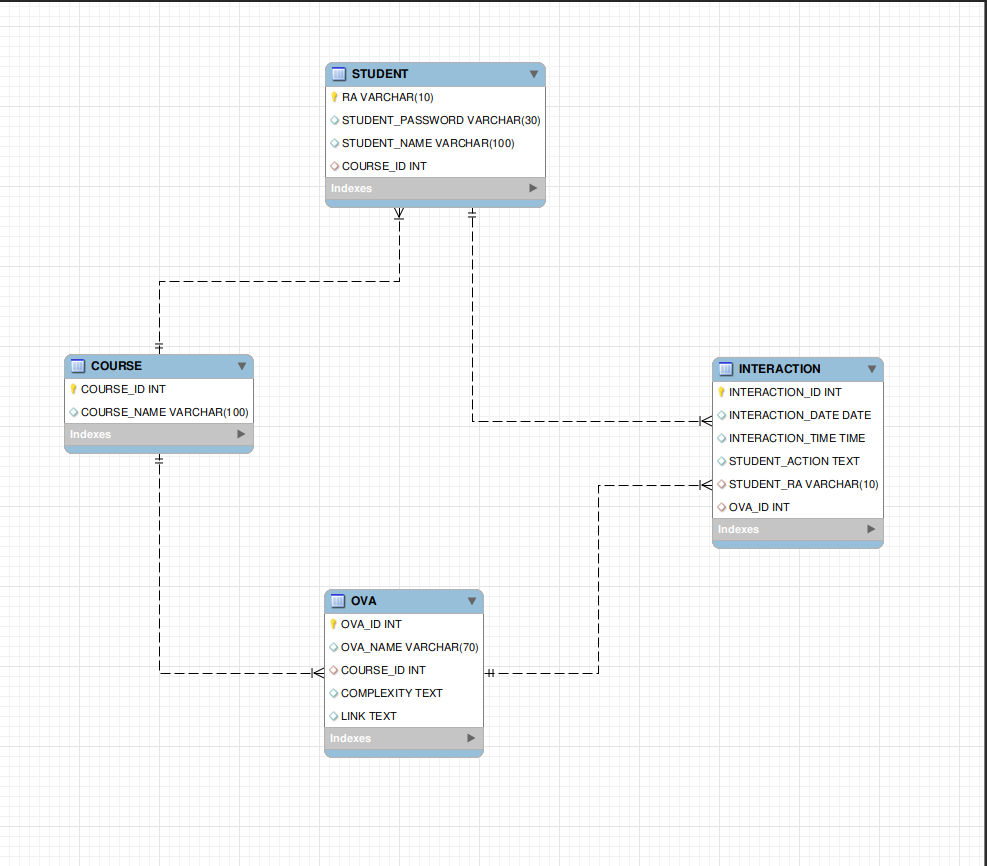
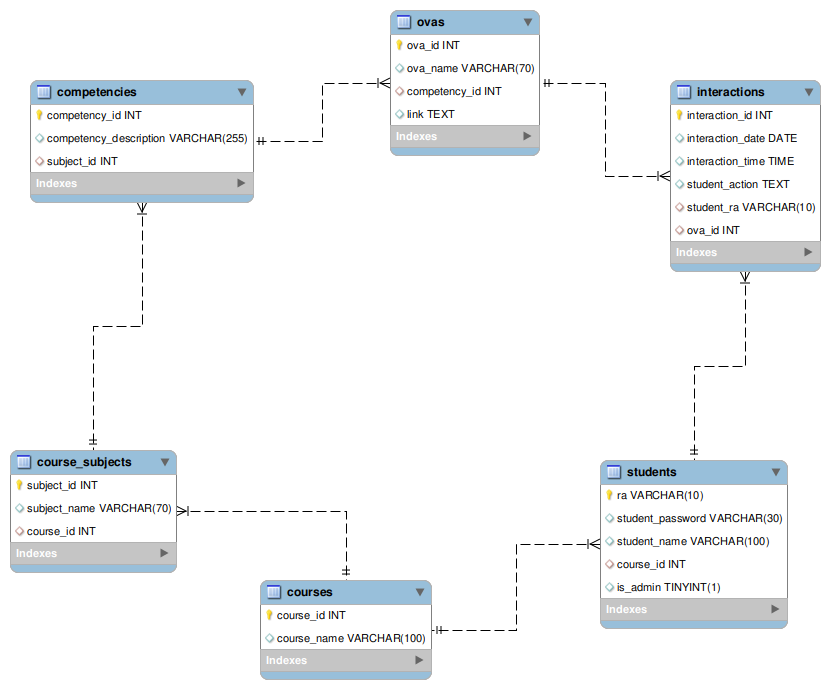
added competencies and subjects tables and updated the api for it

diff --git a/Front-End/js/request.js b/Front-End/js/request.js
@@ -1,4 +1,4 @@
-const PORT = 8000;
+const PORT = 8080;
 const HOST = "localhost";
 const BASE_URL = `http://${HOST}:${PORT}`
 

diff --git a/Front-End/js/video-player.js b/Front-End/js/video-player.js
@@ -1,4 +1,4 @@
-const PORT = 8000;
+const PORT = 8080;
 const HOST = "localhost";
 const BASE_URL = `http://${HOST}:${PORT}`
 

diff --git a/Back-End/api/routes/interactionRoute.py b/Back-End/api/routes/interactionRoute.py
@@ -10,10 +10,9 @@ from peewee import PeeweeException
 import json
 import datetime
 
-from student import Student
-from ova import OVA
-
-from interaction import Interaction
+from students import Students
+from ovas import OVAs
+from interactions import Interactions
 
 app_interaction = Blueprint("interaction", __name__)
 
@@ -24,10 +23,10 @@ def register():
         try:
             interaction_data = request.get_json()[0]
             
-            student = Student.select().where(Student.ra == interaction_data["ra"]).first()
-            ova = OVA.select().where(OVA.ova_id == interaction_data["ova_id"]).first()
+            student = Students.select().where(Students.ra == interaction_data["ra"]).first()
+            ova = OVAs.select().where(OVAs.ova_id == interaction_data["ova_id"]).first()
             
-            interaction = Interaction.create(
+            interaction = Interactions.create(
                 interaction_date = datetime.datetime.now().strftime("%Y/%m/%d"),
                 interaction_time = datetime.datetime.now().strftime("%H:%M:%S"),
                 student_action = interaction_data["action"],

diff --git a/Back-End/api/routes/loginRoute.py b/Back-End/api/routes/loginRoute.py
@@ -9,8 +9,8 @@ from flask_cors import cross_origin
 import json
 from peewee import PeeweeException
 
-from student import Student
-from course import Course
+from students import Students
+from courses import Courses
 
 app_login = Blueprint('login', __name__)
 
@@ -20,12 +20,12 @@ def login():
     if request.method == "POST":
         try:
             login_data = request.get_json()[0]
-            student = Student.select().where(Student.ra == login_data["ra"]).first()
+            student = Students.select().where(Students.ra == login_data["ra"]).first()
             
             if (not student or login_data["ra"] == "") or login_data["password"] != student.student_password:
                 return "Wrong RA or Password", 401
             
-            course = Course.select().where(Course.course_id == student.course_id).first()
+            course = Courses.select().where(Courses.course_id == student.course_id).first()
             
             ids = {
                 "course_id": course.course_id,

diff --git a/Back-End/api/routes/ovaRoute.py b/Back-End/api/routes/ovaRoute.py
@@ -9,7 +9,7 @@ from flask_cors import cross_origin
 from peewee import PeeweeException
 import json
 
-from ova import OVA
+from ovas import OVAs
 
 app_ova = Blueprint("ova", __name__)
 
@@ -18,7 +18,7 @@ app_ova = Blueprint("ova", __name__)
 def show_course_OVAs(course_id):
     if request.method == "GET":
         try:
-            ovas = OVA.select().where(OVA.course_id == course_id)
+            ovas = OVAs.select().where(OVAs.course_id == course_id)
             ova_list = []
             for ova in ovas:
                 ova_dict = {
@@ -39,7 +39,7 @@ def show_course_OVAs(course_id):
 def show_all_OVAs():
     if request.method == "GET":
         try:
-            ovas = OVA.select()
+            ovas = OVAs.select()
             ova_list = []
             for ova in ovas:
                 ova_dict = {

diff --git a/Back-End/plots/data_analysis.py b/Back-End/plots/data_analysis.py
@@ -6,14 +6,14 @@ sys.path.append(os.path.abspath(os.path.join(os.getcwd(), 'data')))
 
 from playhouse.shortcuts import model_to_dict, fn, JOIN
 
-from student import Student
-from ova import OVA
-from interaction import Interaction
-from course import Course
+from students import Students
+from ovas import OVAs
+from interactions import Interactions
+from courses import Courses
 
 def ova_interactions_by_student(data):
-    I = Interaction.alias()
-    O = OVA.alias()
+    I = Interactions.alias()
+    O = OVAs.alias()
     
     student_interactions = I.select(I.interaction_id, I.ova_id).where(I.student_ra == data["ra"])
     SI = student_interactions.alias("SI")

diff --git a/Back-End/api/routes/studentRoute.py b/Back-End/api/routes/studentRoute.py
@@ -9,7 +9,7 @@ from flask_cors import cross_origin
 from peewee import PeeweeException
 import json
 
-from student import Student
+from students import Students
 
 app_student = Blueprint("student", __name__)
 
@@ -18,7 +18,7 @@ app_student = Blueprint("student", __name__)
 def student_by_course(course_id):
     if request.method == "GET":
         try:
-            students = Student.select().where(Student.course_id == course_id)
+            students = Students.select().where(Students.course_id == course_id)
             student_list = []
             for student in students:
                 student_dict = {

diff --git a/Back-End/api/routes/courseRoute.py b/Back-End/api/routes/courseRoute.py
@@ -9,7 +9,7 @@ from flask_cors import cross_origin
 from peewee import PeeweeException
 import json
 
-from course import Course
+from courses import Courses
 
 app_course = Blueprint("course", __name__)
 
@@ -18,7 +18,7 @@ app_course = Blueprint("course", __name__)
 def show_courses():
     if request.method == "GET":
         try:
-            courses = Course.select()
+            courses = Courses.select()
             course_list = []
             for course in courses:
                 course_dict = {

diff --git a/Back-End/data/models/interactions.py b/Back-End/data/models/interactions.py
@@ -1,0 +1,12 @@
+from base import BaseModel
+from students import Students
+from ovas import OVAs
+from peewee import *
+
+class Interactions(BaseModel):
+    interaction_id = AutoField()
+    interaction_date = DateField()
+    interaction_time = TimeField()
+    student_action = TextField()
+    student_ra = ForeignKeyField(Students, backref="interactions", on_delete="CASCADE", on_update="CASCADE")
+    ova_id = ForeignKeyField(OVAs, backref="interactions", on_delete="CASCADE", on_update="CASCADE")

diff --git a/Back-End/api/api.py b/Back-End/api/api.py
@@ -19,7 +19,7 @@ app.register_blueprint(app_student)
 app.register_blueprint(app_plot)
 
 if __name__ == "__main__":
-    app.run(debug=True, port=8000)
+    app.run(debug=True, port=8080)
     
 #dividir a tabela de interações em interações de questões e de progresso (tabelas filhas)
 #questões -> questão, alternativa escolhida (texto), arternativa correta (texto), se acertou ou não

diff --git a/Back-End/data/models/subjects.py b/Back-End/data/models/subjects.py
@@ -1,0 +1,11 @@
+from base import BaseModel
+from courses import Courses
+from peewee import *
+
+class Subjects(BaseModel):
+    subject_id = IntegerField(primary_key=True)
+    subject_name = TextField()
+    course_id = ForeignKeyField(Courses, backref="subjects", on_delete="CASCADE", on_update="CASCADE")
+    
+    class Meta:
+        table_name = "course_subjects"

diff --git a/Back-End/data/models/students.py b/Back-End/data/models/students.py
@@ -1,0 +1,10 @@
+from base import BaseModel
+from courses import Courses
+from peewee import *
+
+class Students(BaseModel):
+    ra = TextField(primary_key=True)
+    student_password = TextField()
+    student_name = TextField()
+    course_id = ForeignKeyField(Courses, backref="students", on_delete="CASCADE", on_update="CASCADE")
+    is_admin = BooleanField()
